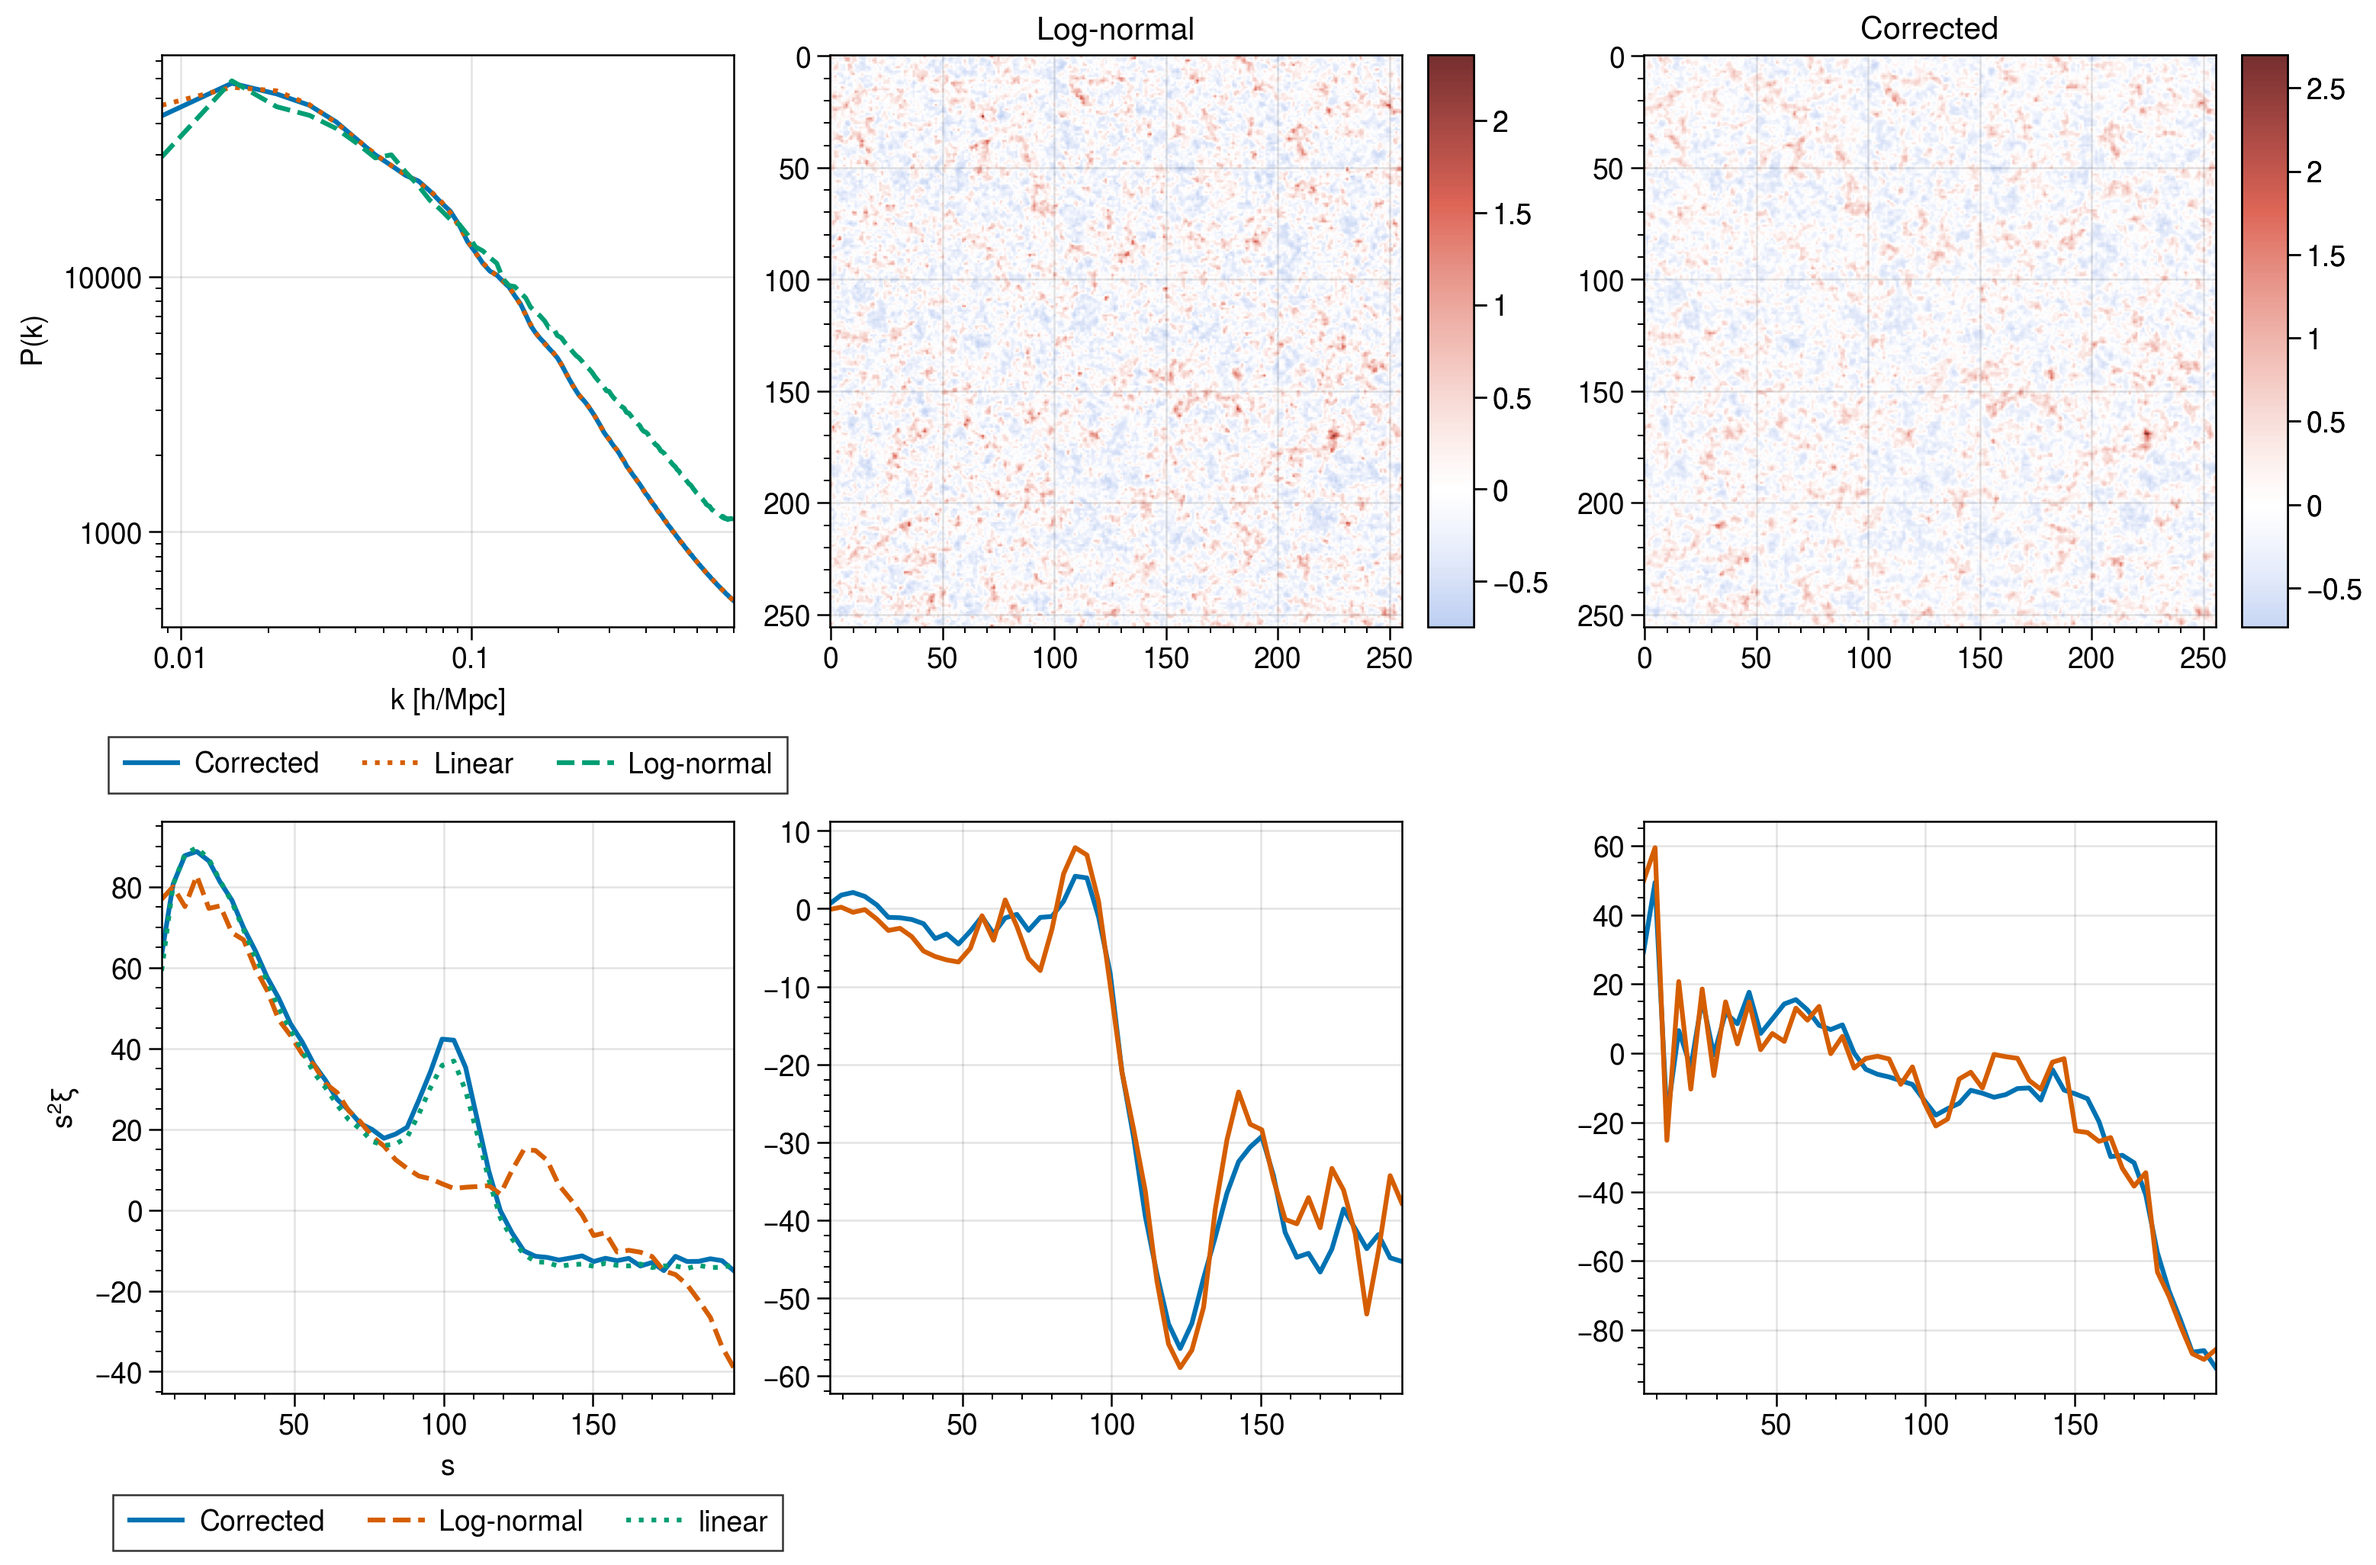
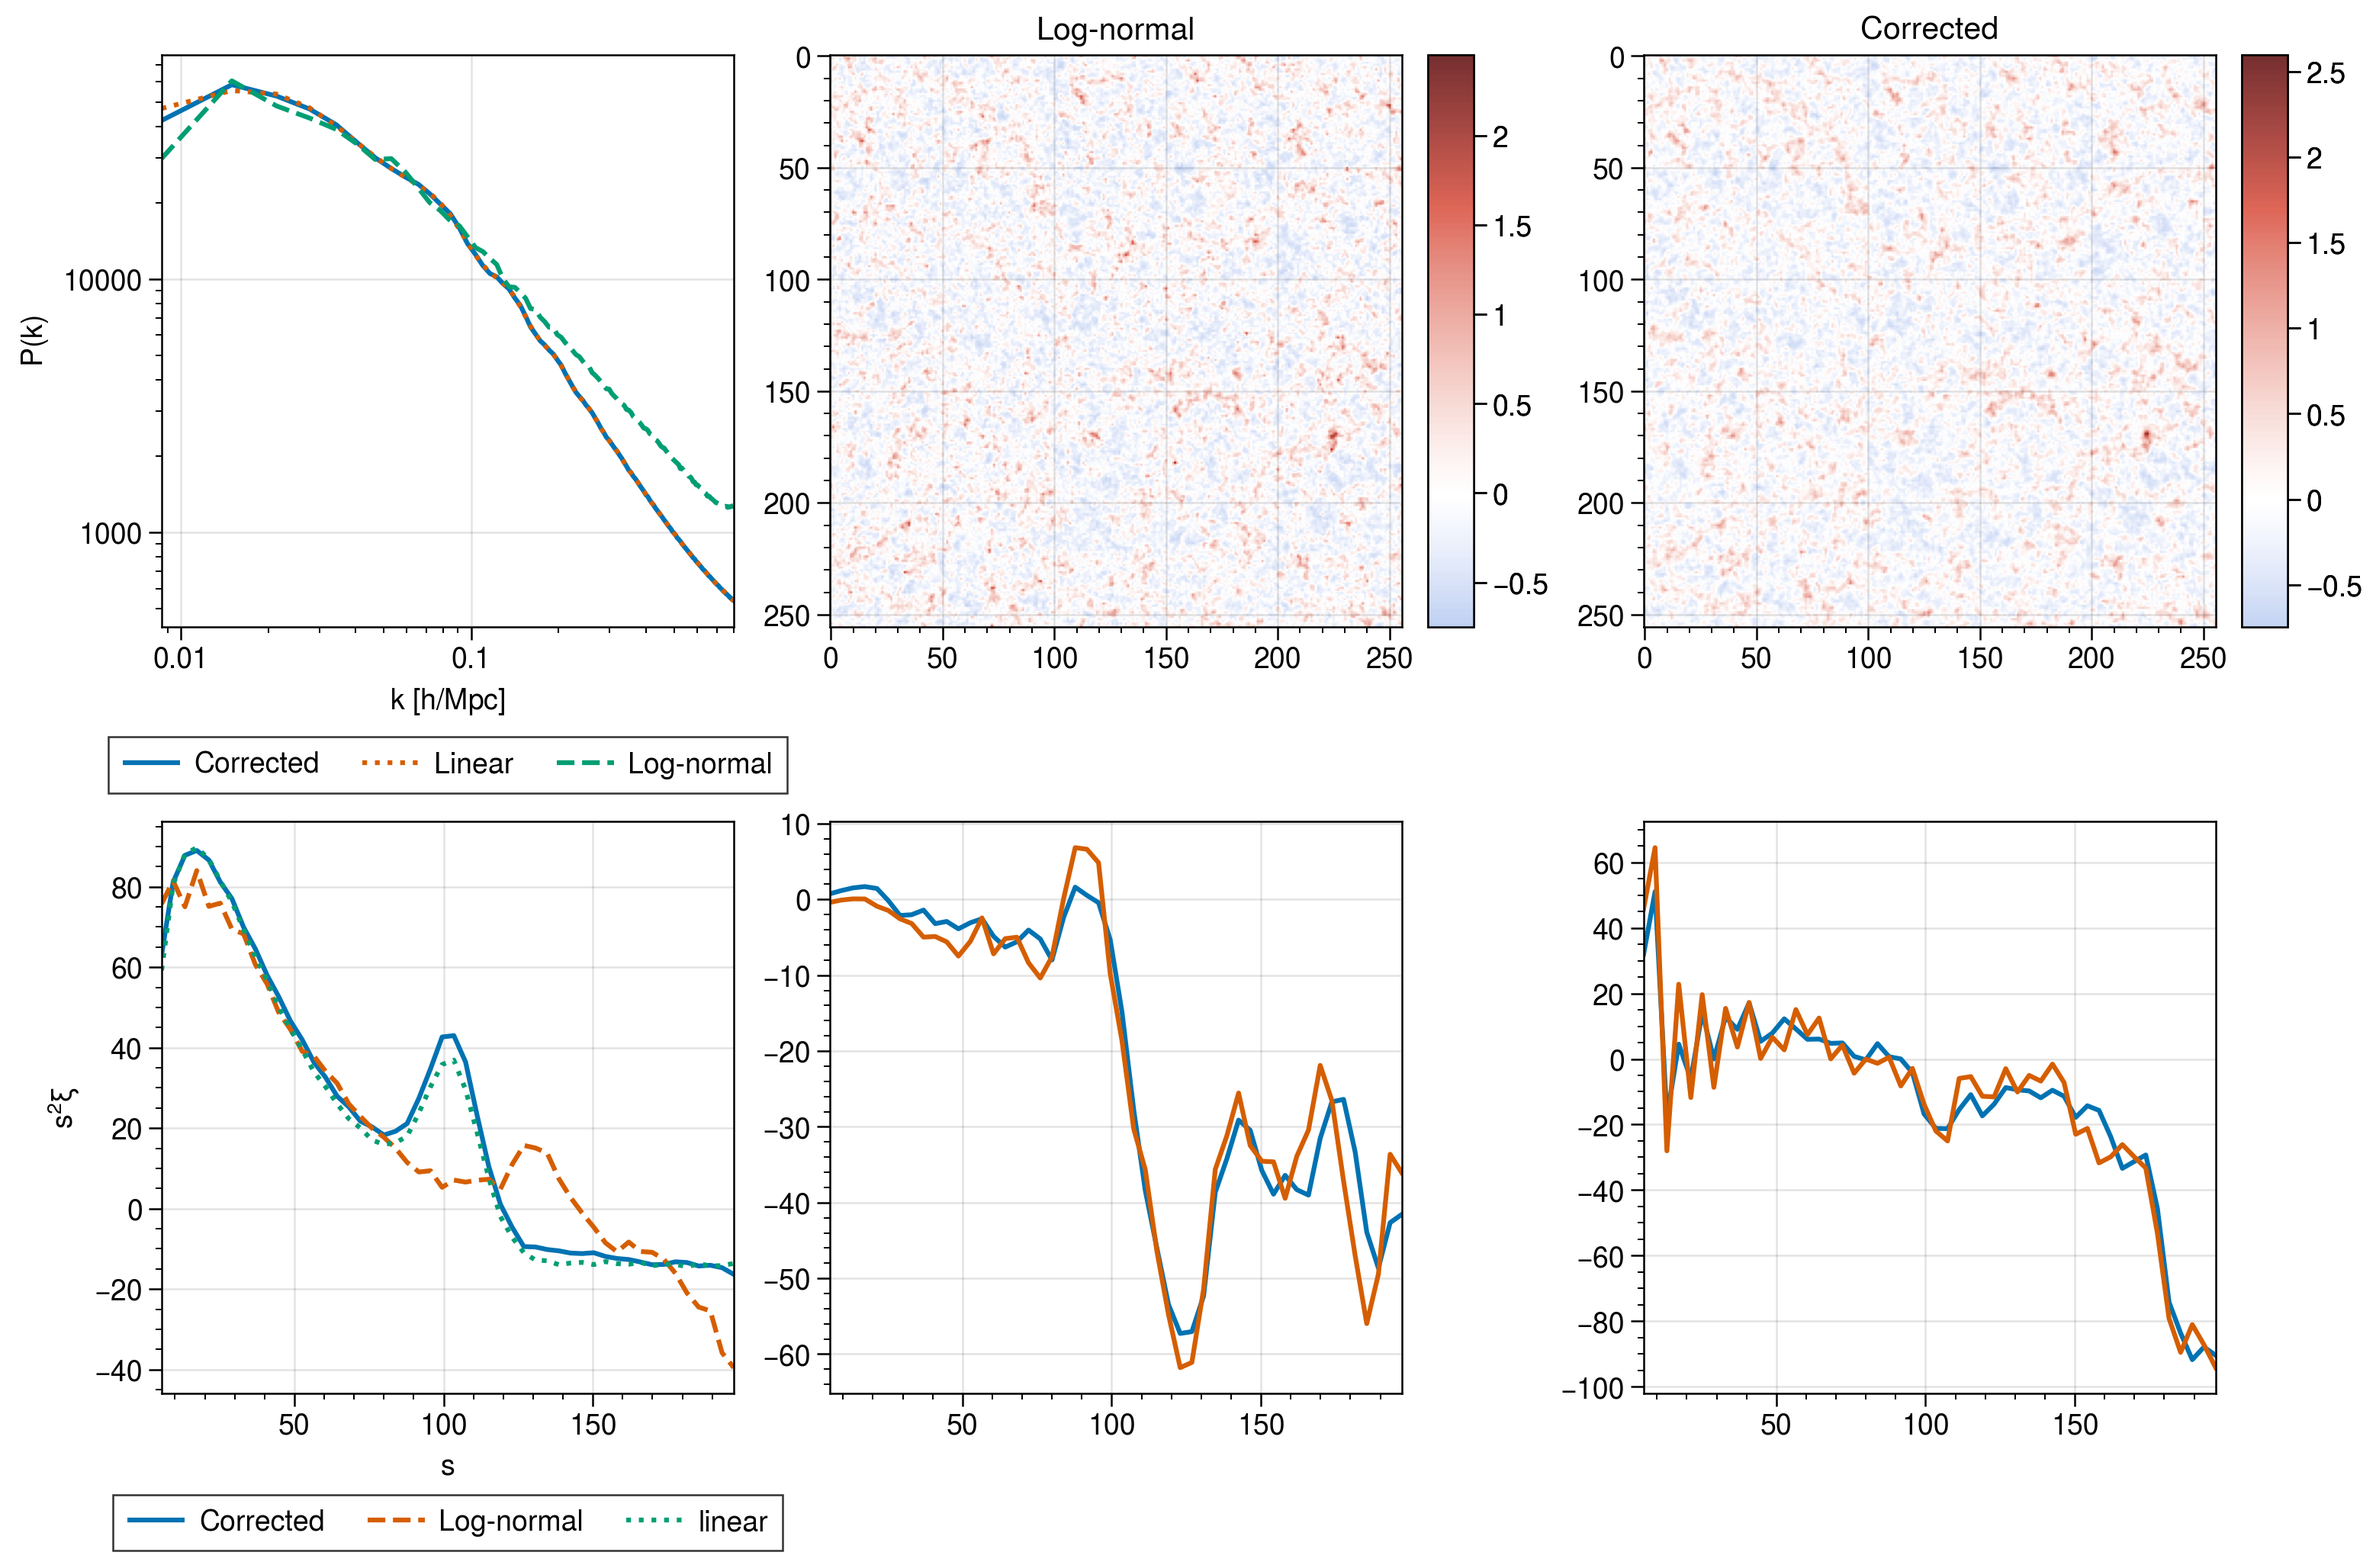
Created lognormal with higher res

diff --git a/tests/lognormal_nobao.py b/tests/lognormal_nobao.py
@@ -30,7 +30,7 @@ if create_data:
     print(cosmo)
     Plin = cosmology.LinearPower(cosmo, redshift, transfer='NoWiggleEisensteinHu')
     
-    cat = LogNormalCatalog(Plin=Plin, nbar=3.5e-3, BoxSize=box_size, Nmesh=350, bias=b1, seed=seed)
+    cat = LogNormalCatalog(Plin=Plin, nbar=3.5e-3, BoxSize=box_size, Nmesh=450, bias=b1, seed=seed)
     particles = cat['Position'].compute()
     np.save("data/lognormal_nobao.npy", particles)
 else:
